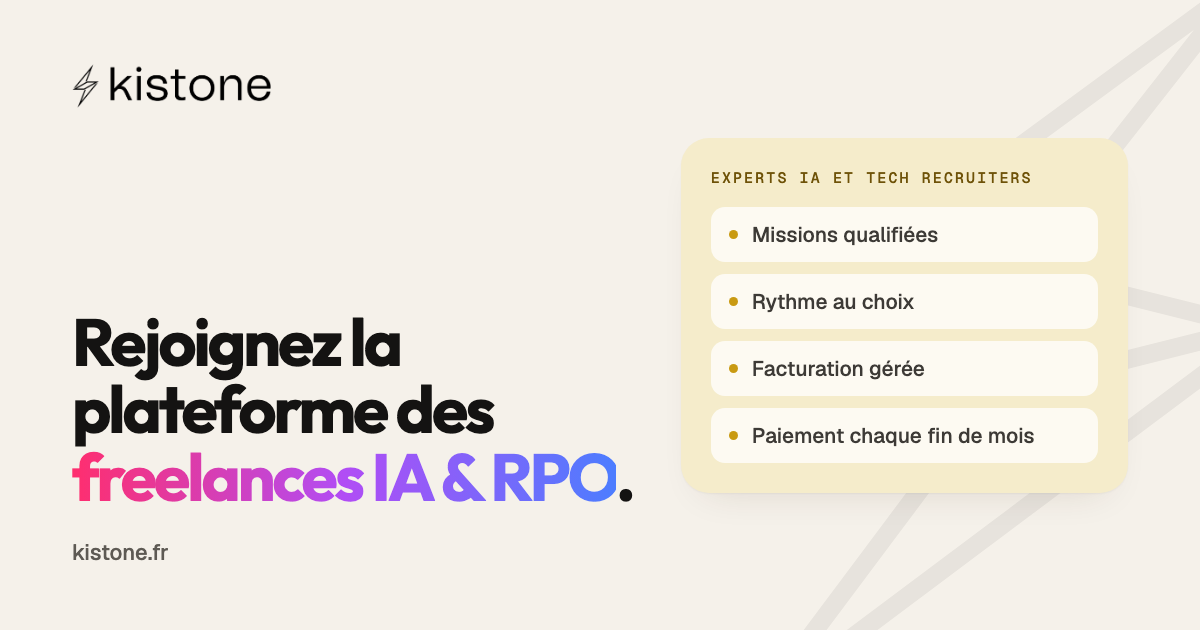
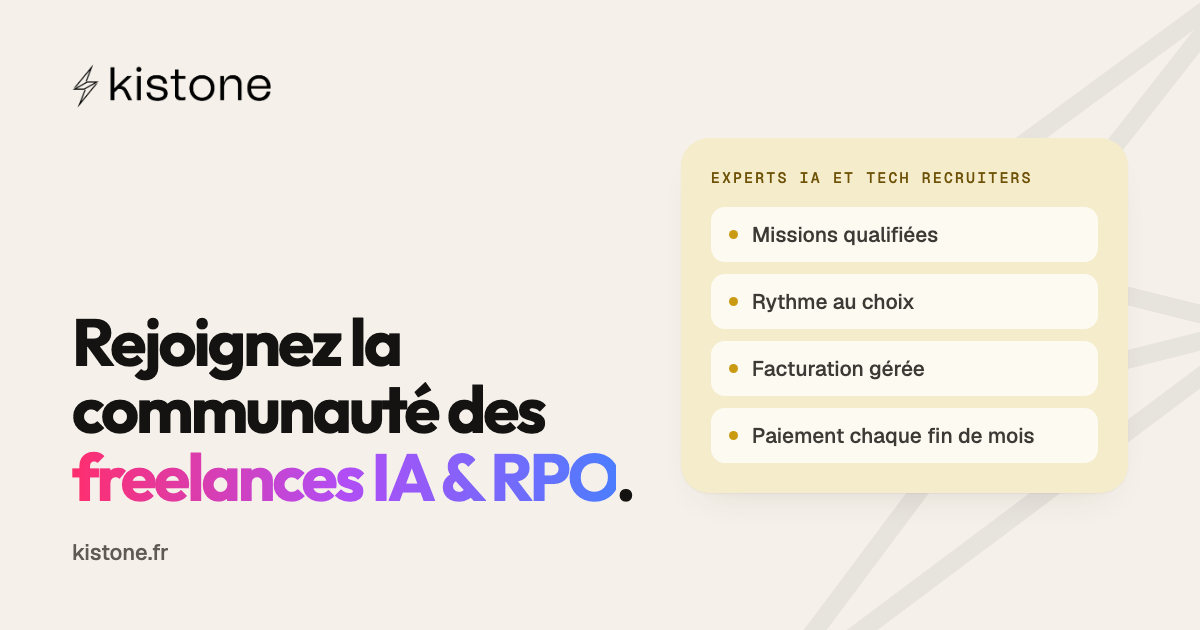
Espace freelance : « Rejoignez la communauté des freelances IA & RPO » (titre et image de partage)

Changed region(s): [[0.0617, 0.6032, 0.4625, 0.7238]]

diff --git a/src/pages/FreelancesPage.tsx b/src/pages/FreelancesPage.tsx
@@ -169,7 +169,7 @@ export default function FreelancesPage() {
         <BoltWatermark strokeWidth={14} className="-right-24 -top-24 h-[640px] w-auto rotate-[14deg] md:h-[760px]" />
         <div>
           <h1 className="font-ks-display text-[44px] font-bold leading-[1.02] tracking-[-0.048em] sm:text-[60px] lg:text-[68px]">
-            Rejoignez la plateforme des <Highlight>freelances IA & RPO</Highlight>
+            Rejoignez la communauté des <Highlight>freelances IA & RPO</Highlight>
           </h1>
           <p className="mt-6 max-w-[620px] text-lg leading-[1.5] text-ks-soft md:text-xl">
             AI Engineers, AI Product, AI Leaders ou Tech Recruiters : des missions qualifiées, au rythme que vous choisissez. Une rémunération transparente, payée chaque fin de mois. L'administratif, on s'en occupe.
